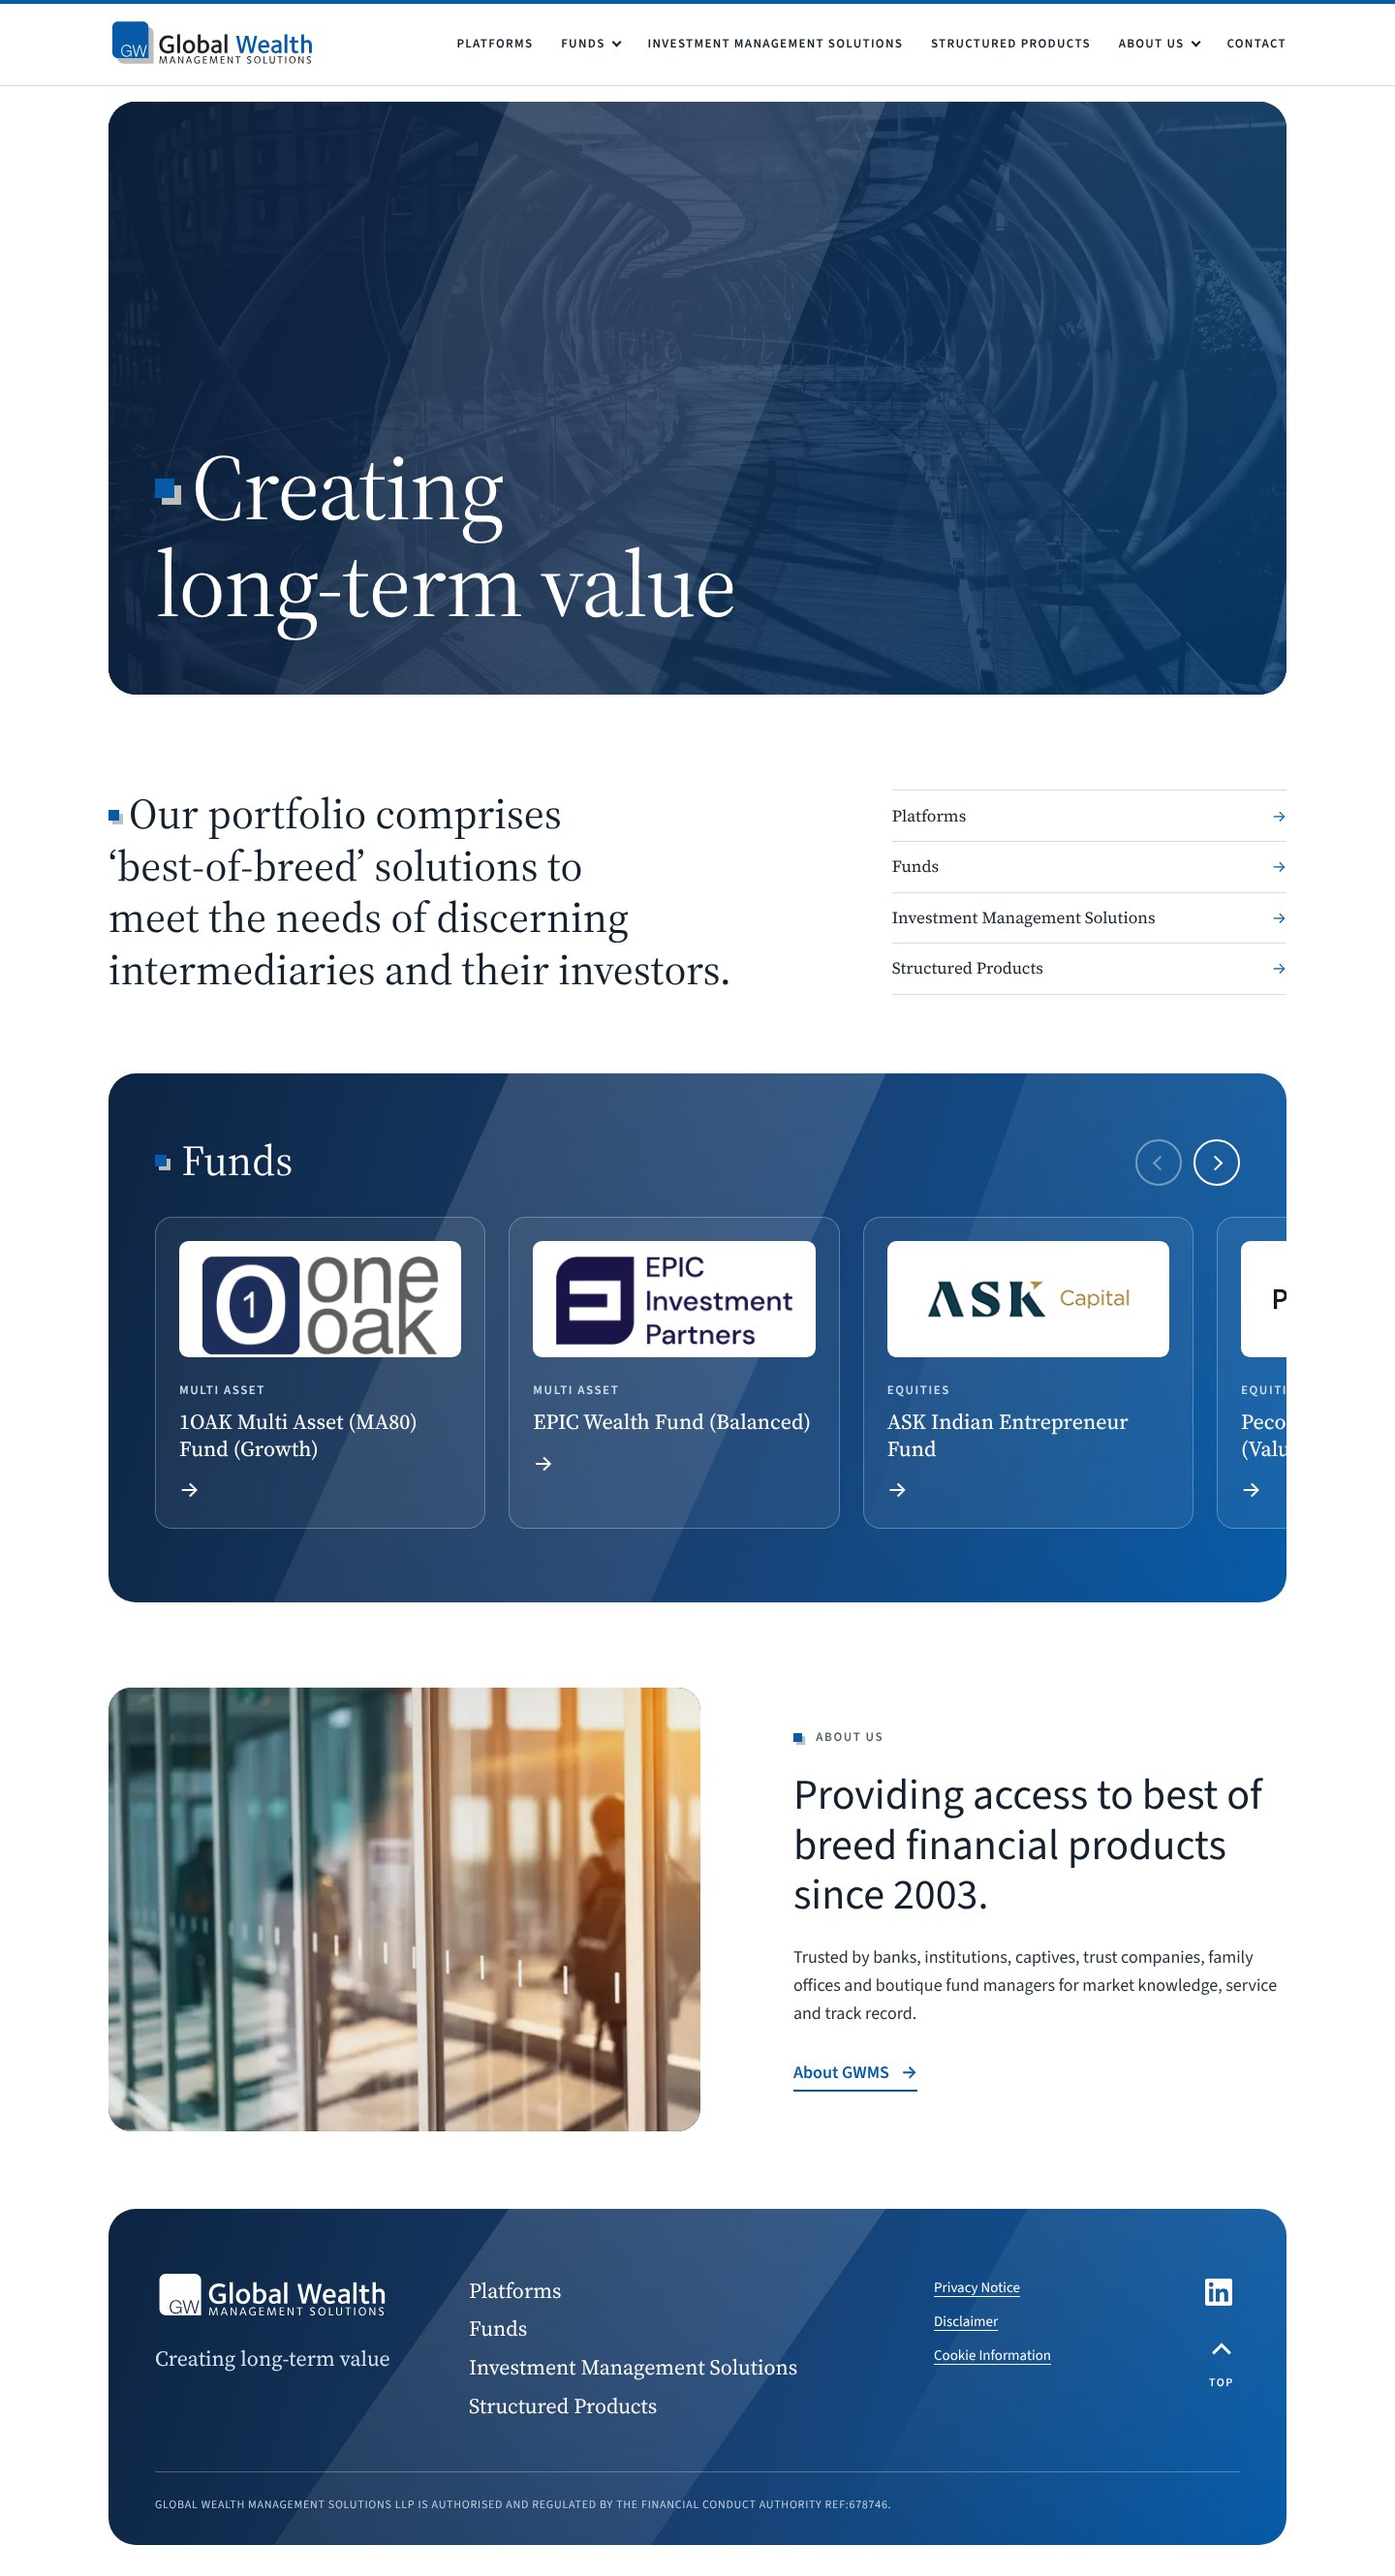
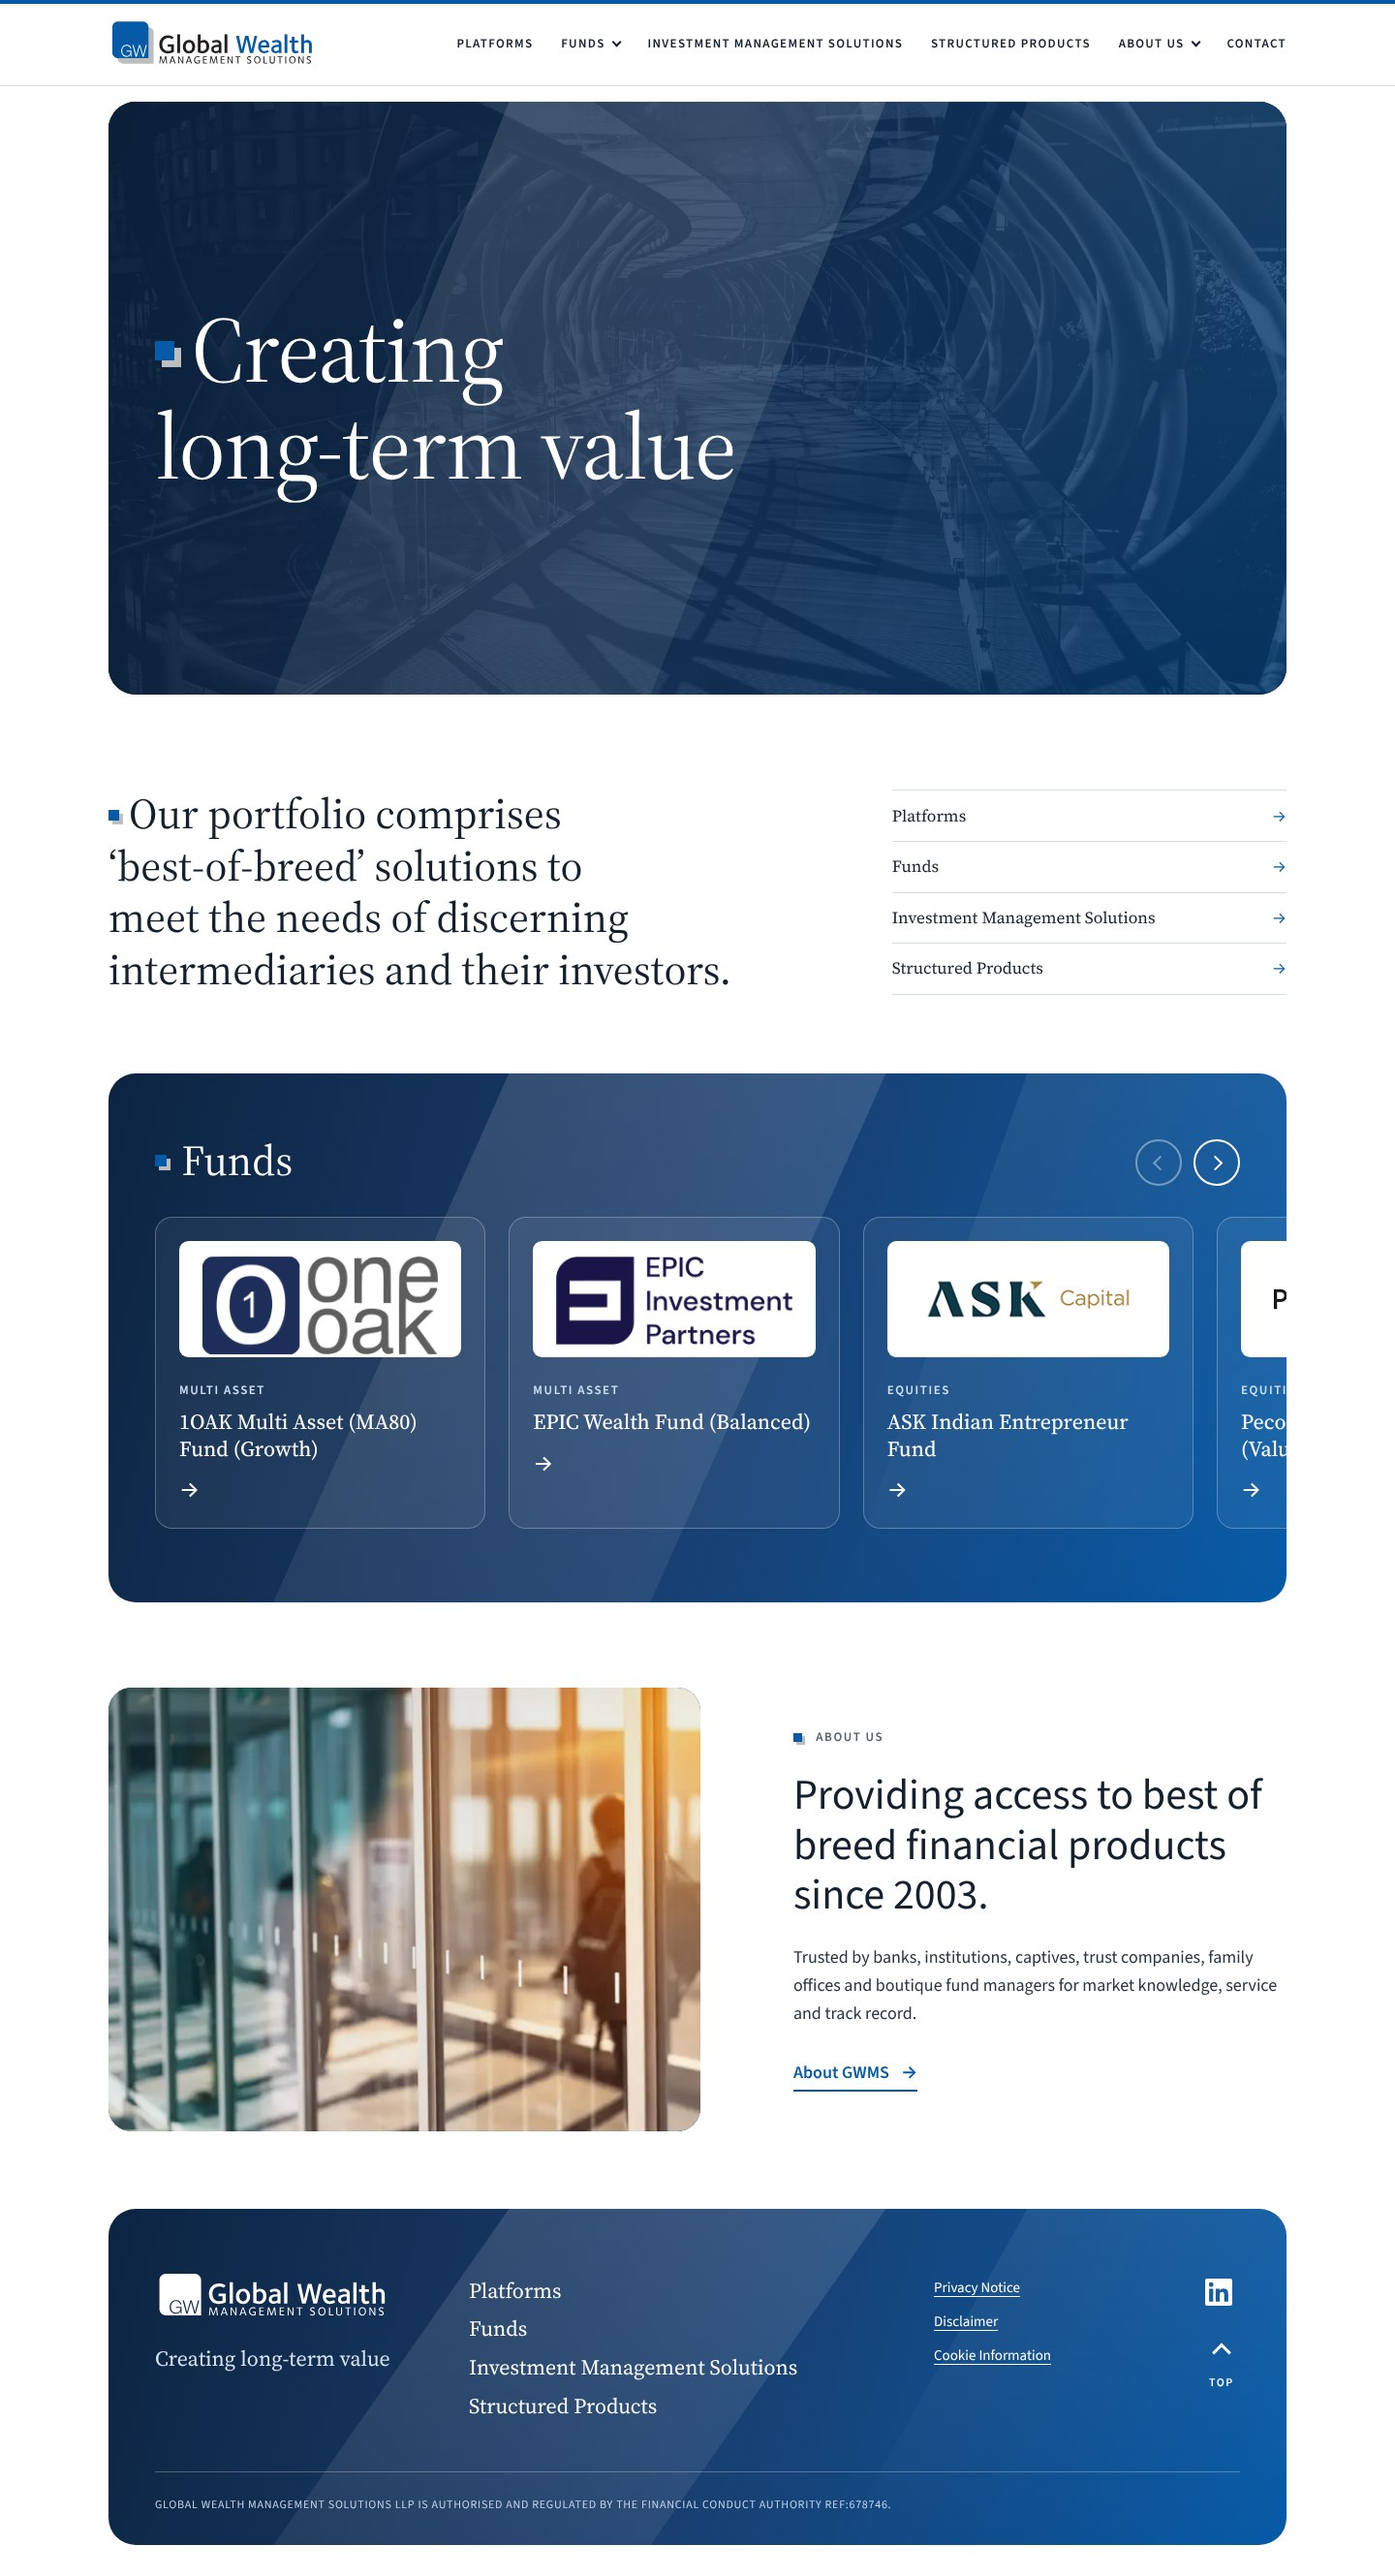
Concept home: centre hero text vertically

Changed region(s): [[0.0938, 0.1249, 0.5312, 0.2497]]

diff --git a/preview/css/concept.css b/preview/css/concept.css
@@ -33,7 +33,8 @@
   clip-path: none; inset: 0; z-index: -1;
   background: linear-gradient(100deg, rgba(10, 30, 56, 0.88) 0%, rgba(26, 61, 108, 0.62) 45%, rgba(6, 90, 167, 0.28) 100%);
 }
-.hero--framed .hero__inner { padding-block: var(--s-9) var(--s-8); }
+.hero--framed { align-items: center; }
+.hero--framed .hero__inner { padding-block: var(--s-8); }
 .hero--framed .hero__title { font-size: clamp(2.75rem, 1.6rem + 5.2vw, 6rem); font-weight: 400; }
 
 /* ---- Statement + index (with Platforms) --------------------------------- */

diff --git a/docs/08-concept-home.md b/docs/08-concept-home.md
@@ -57,3 +57,6 @@ Revision 11 is rolled back: the Funds panel is again plain gradient + two bands 
 
 ## Revision 13
 Hero veil 5 points more transparent at every stop (navy 90→85%, mid 76→71%, blue 62→57%) so the photo shows slightly more. The diagonal bands are unchanged.
+
+## Revision 14
+Hero headline is vertically centred in the banner (was bottom-aligned).
